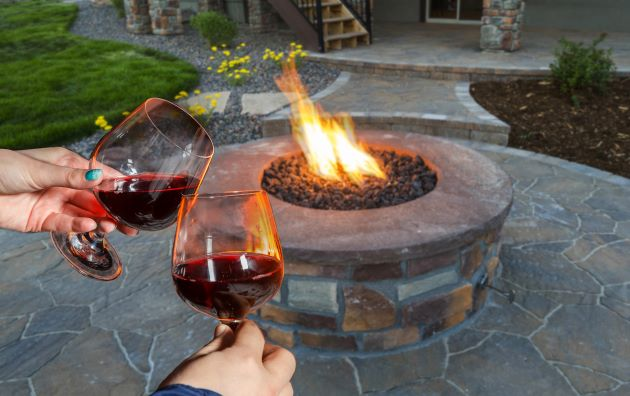
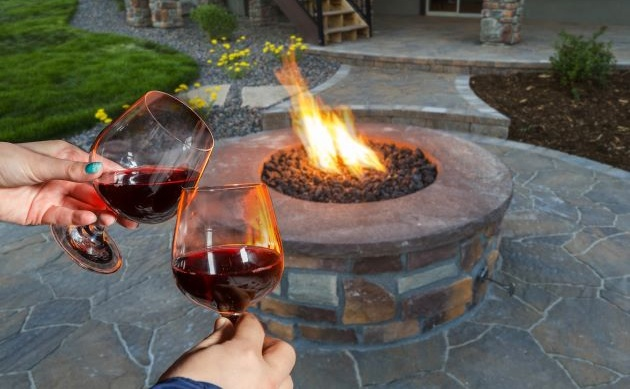
cropped franchise service images to golden ratio

diff --git a/src/pages/franchise/franchise.js b/src/pages/franchise/franchise.js
@@ -2,10 +2,10 @@ import React, {Fragment, useEffect, useState} from 'react';
 import { useEasybase } from 'easybase-react';
 import Navbar from '../../components/navbar';
 import ServiceCard from './serviceCard';
-import pools from '../../images/franchise/pools.jpeg';
-import decks from '../../images/franchise/decks.jpeg';
+import pools from '../../images/franchise/pools.jpg';
+import decks from '../../images/franchise/decks.jpg';
 import firepit from '../../images/franchise/firepit.jpg';
-import sunroom from '../../images/franchise/sunroom.jpeg';
+import sunroom from '../../images/franchise/sunroom.jpg';
 import Map from './map';
 import About from './about/about';
 import CityZip from './cityZip';
@@ -54,10 +54,10 @@ function Franchise(props) {
                         </div> */}
 
                         <div className='row'>
-                            <div className='col-lg-3'><ServiceCard image={decks} service='DECKS' /></div>
-                            <div className='col-lg-3'><ServiceCard image={pools} service='POOLS' /></div>
-                            <div className='col-lg-3'><ServiceCard image={firepit} service='FIREPITS' /></div>
-                            <div className='col-lg-3'><ServiceCard image={sunroom} service='SUNROOMS' /></div>
+                            <div className='col-12 col-md-6 col-lg-3'><ServiceCard image={decks} service='DECKS' /></div>
+                            <div className='col-12 col-md-6 col-lg-3'><ServiceCard image={pools} service='POOLS' /></div>
+                            <div className='col-12 col-md-6 col-lg-3'><ServiceCard image={firepit} service='FIREPITS' /></div>
+                            <div className='col-12 col-md-6 col-lg-3'><ServiceCard image={sunroom} service='SUNROOMS' /></div>
                         </div>
                         <MoreServices />
                     </div>

diff --git a/src/pages/franchise/moreServices.js b/src/pages/franchise/moreServices.js
@@ -9,7 +9,7 @@ function MoreServices() {
     return(
         <Fragment>
         <div className='row'>
-            {!displayServices ? <button className='cta' onClick={() => toggle(true)}>MORE SERVICES</button> : <button onClick={() => toggle(false)}>Less Services</button>}
+            {!displayServices ? <button className='cta' onClick={() => toggle(true)}>MORE SERVICES</button> : <button className='cta' onClick={() => toggle(false)}>LESS SERVICES</button>}
         </div>
         {displayServices && <div className='row more-services'>
         <div className='col-lg-3'>

diff --git a/src/pages/franchise/style.css b/src/pages/franchise/style.css
@@ -85,7 +85,7 @@
 .service-card {
     position: relative;
     width: 100%;
-    height: 150px;
+    /* height: 150px; */
     box-shadow: 2px 2px 8px 1px rgba(102, 102, 102, 0.644)
 }
 
